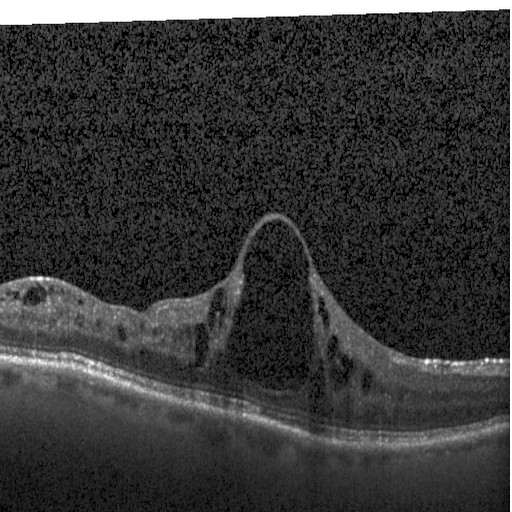
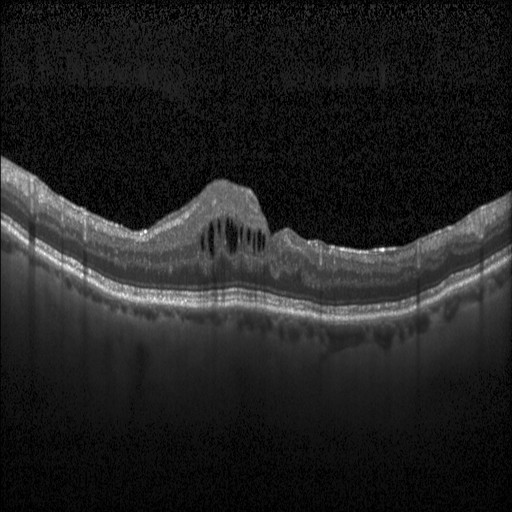
get bm3d working

diff --git a/prepocessing/main.py b/prepocessing/main.py
@@ -1,9 +1,25 @@
 import cv2
-from preprocessor import Preprocessor
+from bm3d import bm3d, BM3DStages
 
+# Load and preprocess the image
 test_image = "./data/test_image.jpeg"
-image = cv2.imread(test_image, cv2.IMREAD_GRAYSCALE)
+image = cv2.imread(test_image)
 
-filtered_image = cv2.bilateralFilter(image, 21,51,51)
-cv2.imshow("test", filtered_image)
+# Convert to grayscale
+gray_image = cv2.cvtColor(image, cv2.COLOR_BGR2GRAY)
+
+# Normalize pixel values to [0, 1]
+normalized_image = gray_image / 255.0
+
+# Apply BM3D denoising
+sigma_psd = 50 / 255.0  # Adjust sigma_psd for normalized scale
+denoised_image = bm3d(normalized_image, sigma_psd=sigma_psd, stage_arg=BM3DStages.ALL_STAGES)
+
+# Denormalize back to [0, 255] and convert to uint8
+denoised_image = (denoised_image * 255).astype('uint8')
+
+# Display the result
+cv2.imshow("Denoised Image", denoised_image)
+# cv2.imwrite("test.jpeg", denoised_image)
 cv2.waitKey(0)
+cv2.destroyAllWindows()
